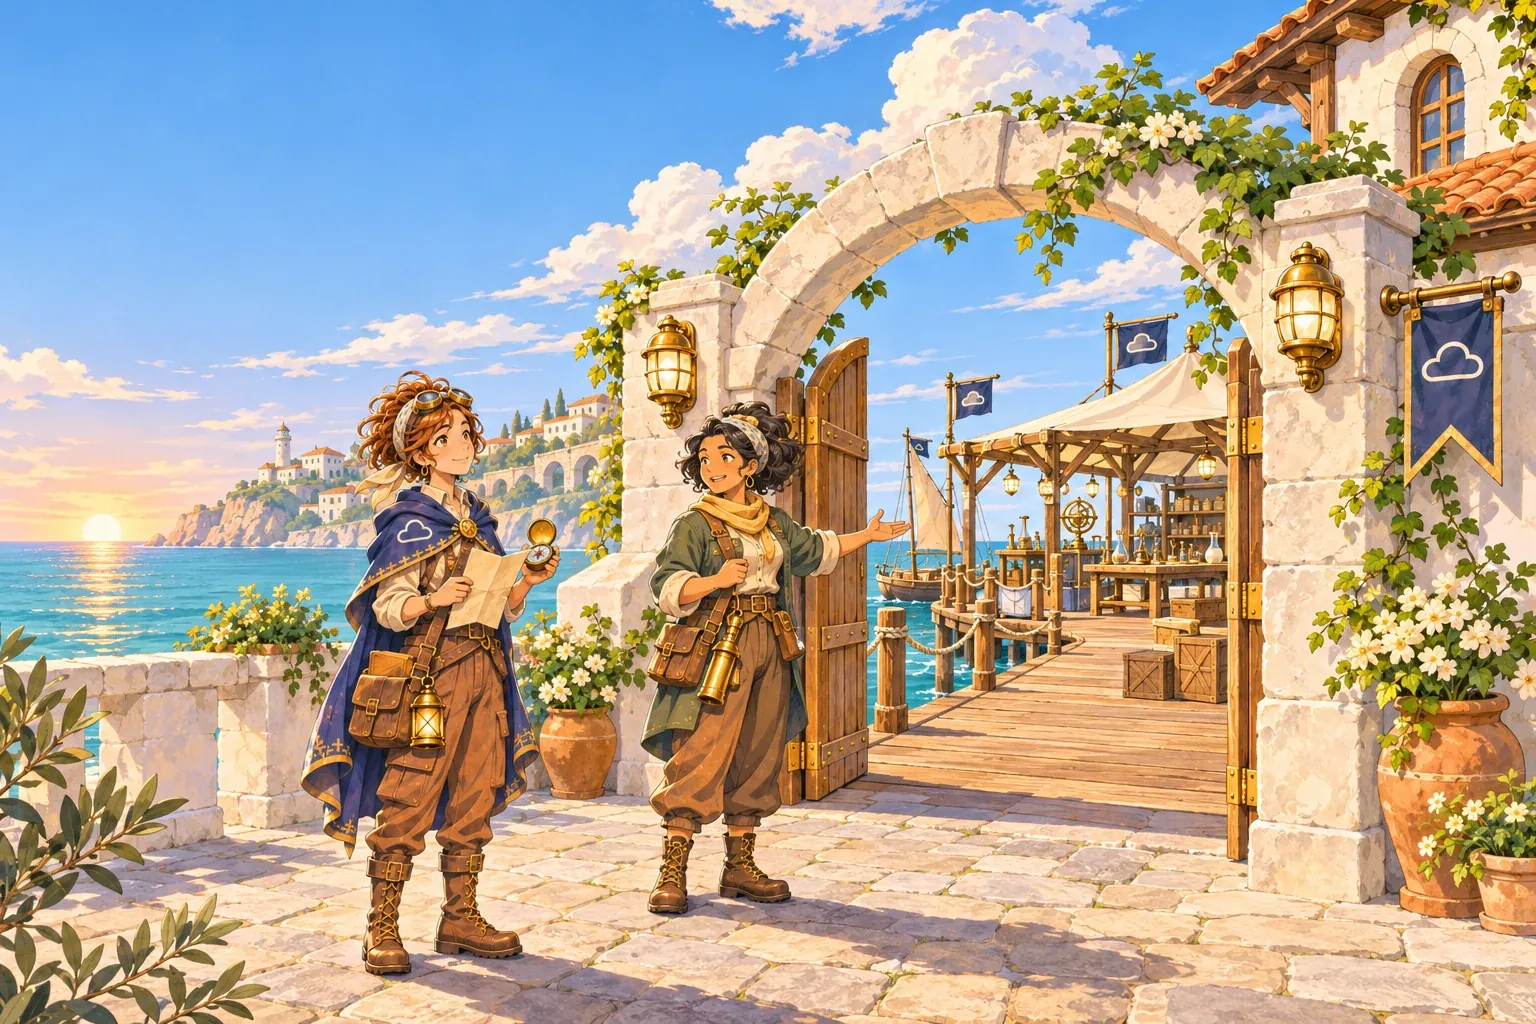
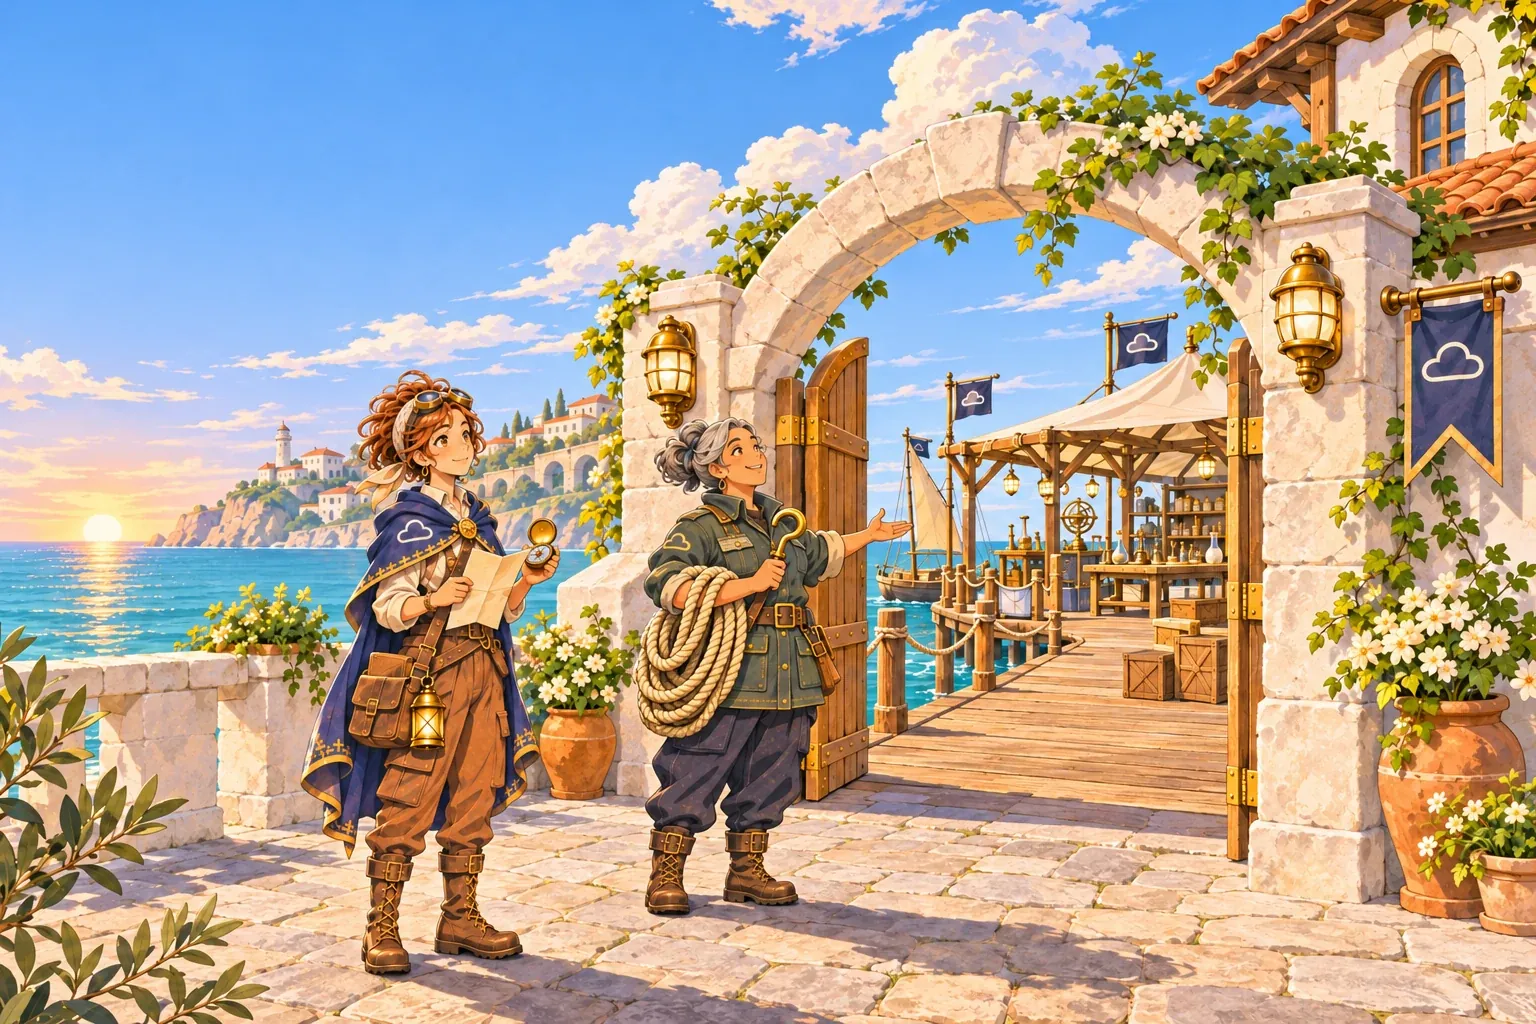
Show Alma as on the character sheet in the Quick lab
The opening and the choice of a lab now show the harbour master with
her grey bun, green work jacket and mooring rope.

diff --git a/docs/lab/index.md b/docs/lab/index.md
@@ -11,7 +11,7 @@ and repair it, and one command that deletes it all.**
 [Pick a lab](#pick-your-lab) · [Commands](#-the-three-commands) · [Exercises](#-exercises) ·
 [Delete it all](#delete-everything-when-you-are-done)
 
-<img src="assets/images/S1-opening.webp" width="1536" height="1024" alt="LUMO, holding a nearly blank map and a small compass, stands at a stone gateway on the harbour while a guide in a green jacket points along a wooden pier to a temporary workshop by the sea.">
+<img src="assets/images/S1-opening.webp" width="1536" height="1024" alt="LUMO, holding a nearly blank map and a small compass, stands at a stone gateway on the harbour while a grey-haired harbour master with a coiled rope points along a wooden pier to a temporary workshop by the sea.">
 
 > [!NOTE]
 > **Status: early, tested on one cloud.** Both variants and all eleven exercises were run end to end between
@@ -27,7 +27,7 @@ On a prepaid cloud you cannot spend more than your credit; on any other cloud, s
 
 ## Pick your lab
 
-<img src="assets/images/S1-pick-your-lab.webp" width="1536" height="1024" loading="lazy" alt="LUMO and a guide sit at a table with a plan of piers, in front of a small pier with a single workshop and a larger group of linked piers with several workshops.">
+<img src="assets/images/S1-pick-your-lab.webp" width="1536" height="1024" loading="lazy" alt="LUMO and a grey-haired harbour master sit at a table with a plan of piers, in front of a small pier with a single workshop and a larger group of linked piers with several workshops.">
 
 | | [Single VM](variants/openstack-cloud/index.md) (`openstack-cloud`) | [Multinode](variants/openstack-cloud-multinode/index.md) (`openstack-cloud-multinode`) |
 |---|---|---|
